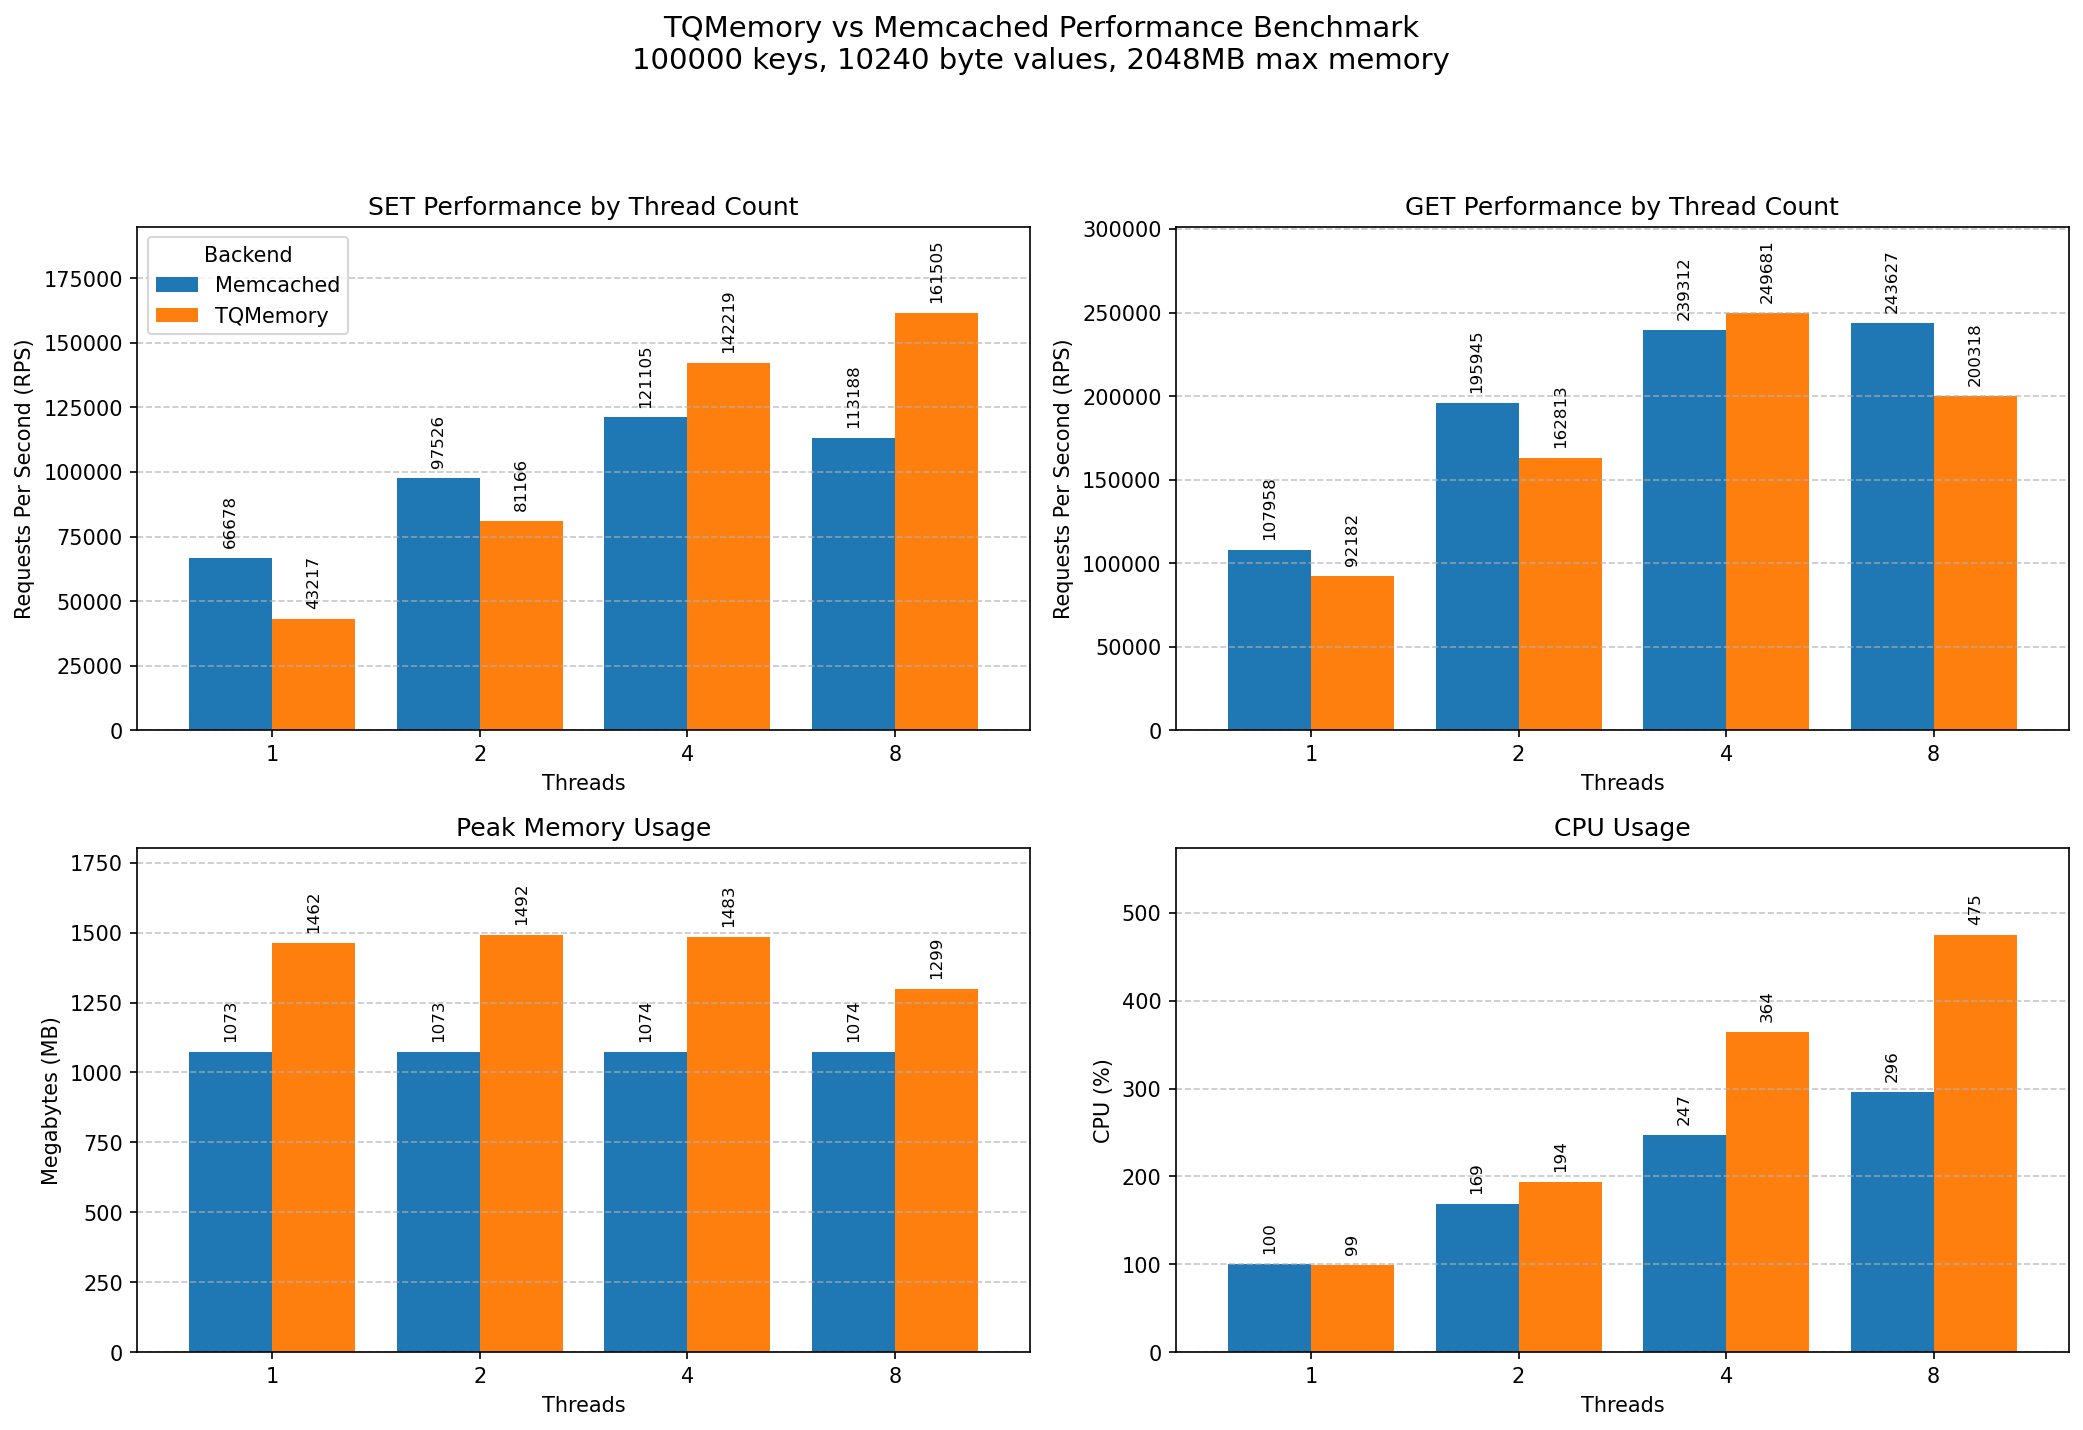
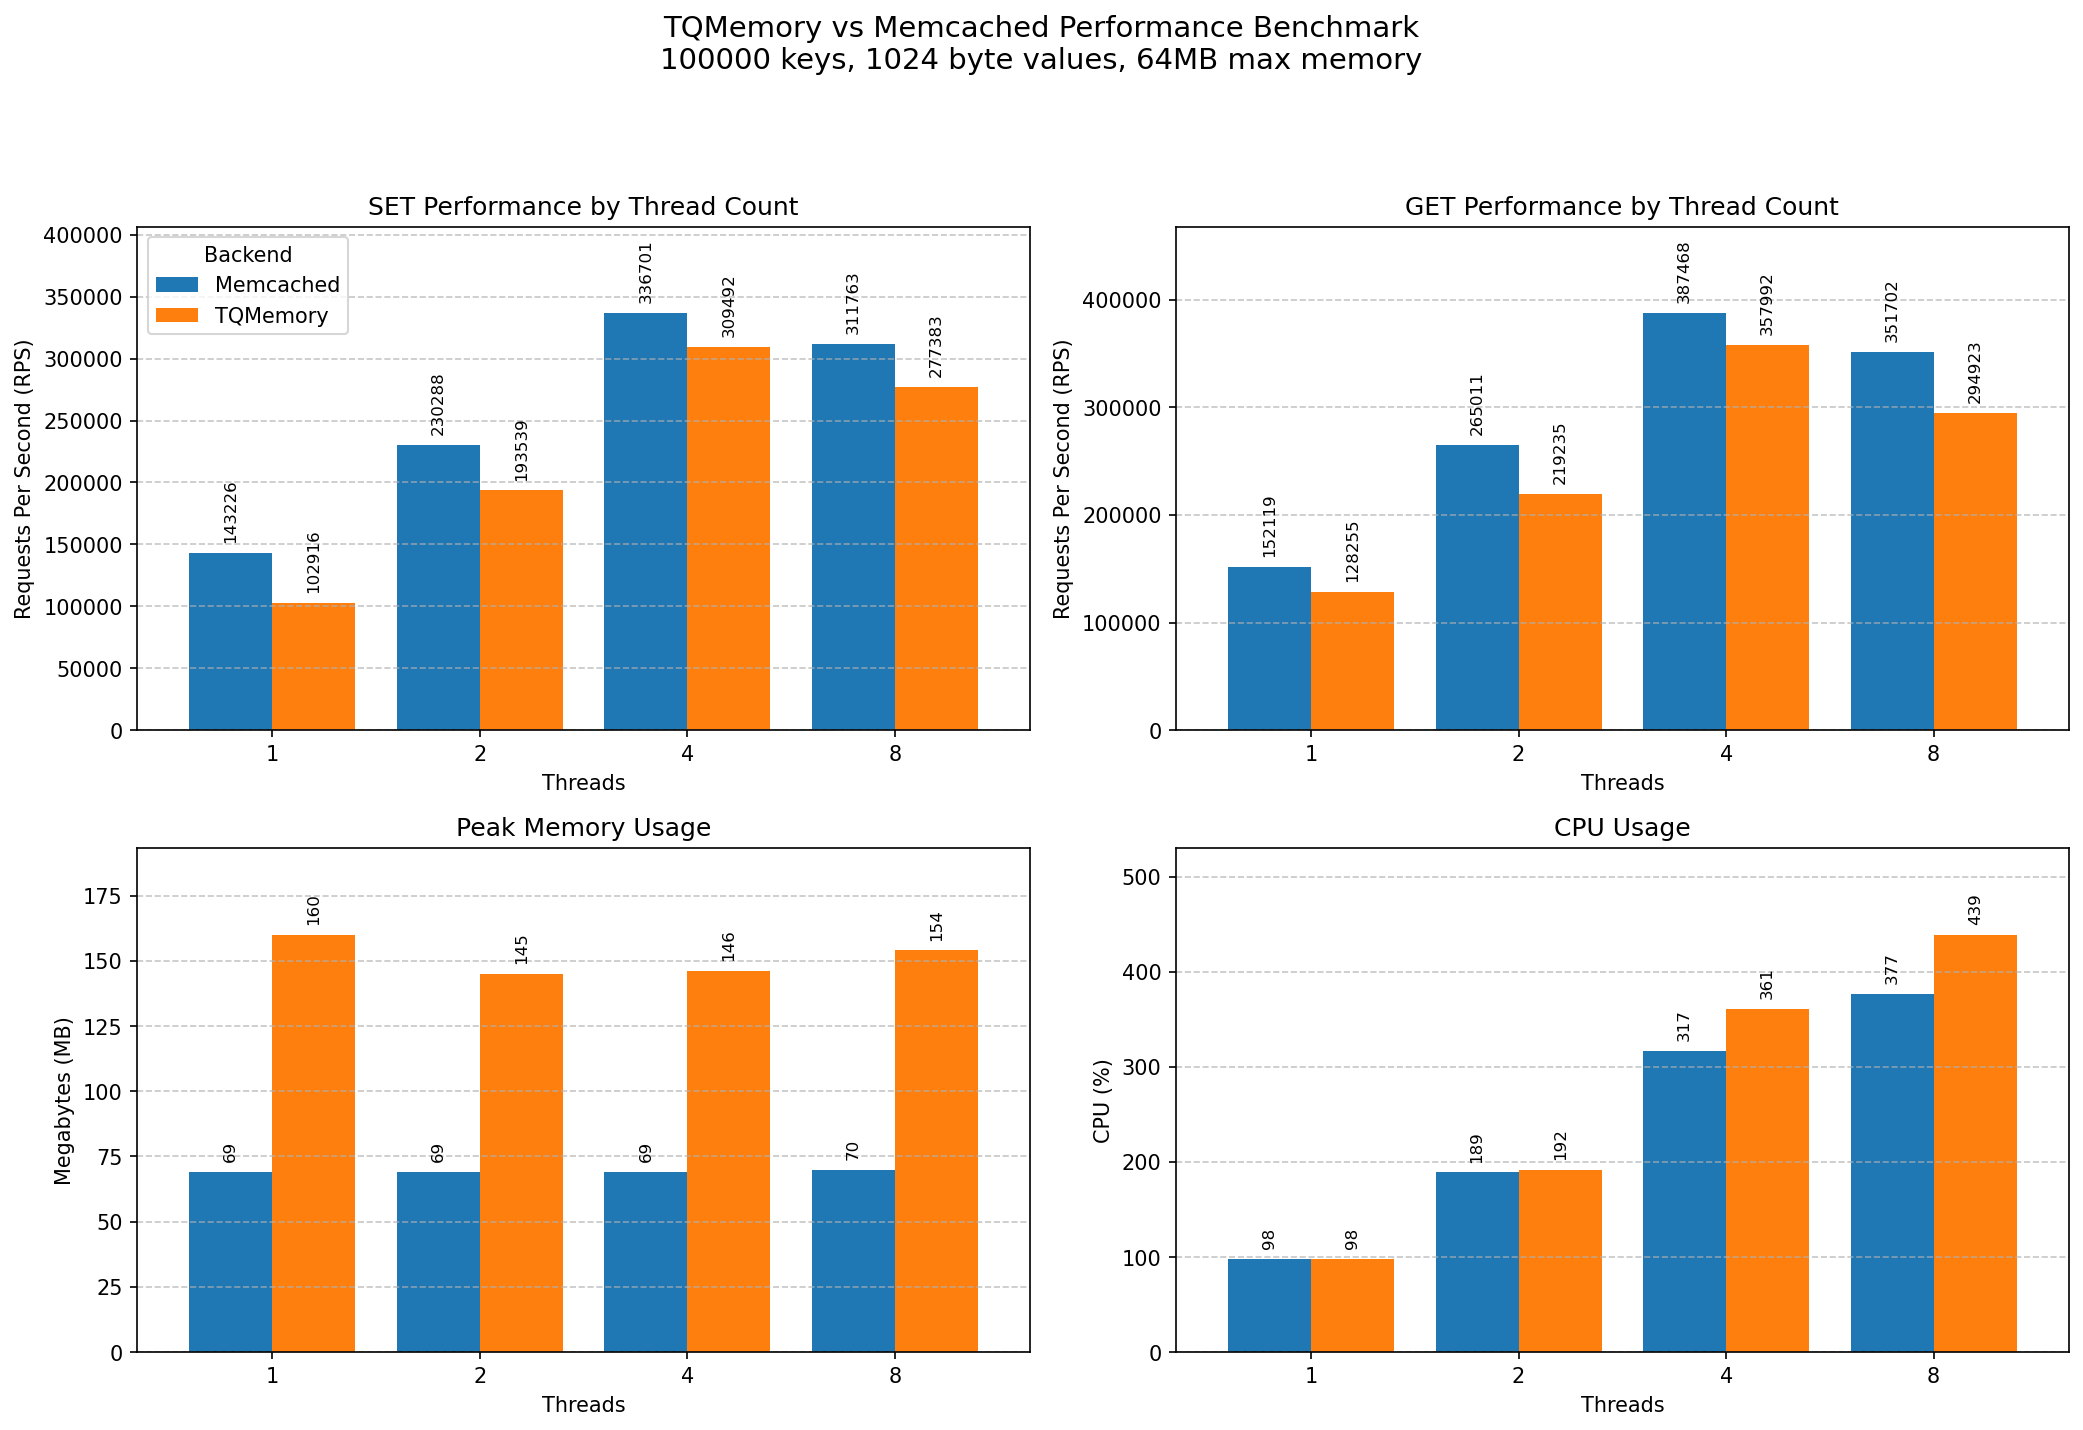
update

diff --git a/pkg/tqmemory/index.go b/pkg/tqmemory/index.go
@@ -4,7 +4,6 @@ import (
 	"container/heap"
 	"container/list"
 	"errors"
-	"sync"
 )
 
 // Common errors
@@ -18,10 +17,11 @@ var (
 
 // IndexEntry represents an entry in the index
 type IndexEntry struct {
-	Key    string
-	Value  []byte // Value stored directly in the entry
-	Expiry int64  // Unix timestamp in milliseconds, 0 = no expiry
-	Cas    uint64
+	Key     string
+	Value   []byte // Value stored directly in the entry
+	Expiry  int64  // Unix timestamp in milliseconds, 0 = no expiry
+	Cas     uint64
+	lruElem *list.Element // Direct pointer to LRU element (avoids lruMap lookup)
 }
 
 // ExpiryEntry represents an entry in the expiry heap
@@ -101,39 +101,32 @@ func (h *ExpiryHeap) Remove(key string) {
 }
 
 // Index holds all in-memory data structures.
-// Uses sync.Map for lock-free concurrent reads.
+// Uses regular map - caller must hold appropriate lock (RLock for Get, Lock for writes).
+// LRU list stores *IndexEntry directly, avoiding key duplication.
 type Index struct {
-	data       sync.Map // key → *IndexEntry, thread-safe
-	count      int      // Manual count (updated under worker lock)
+	data       map[string]*IndexEntry // key → *IndexEntry
 	expiryHeap *ExpiryHeap
-	lruList    *list.List               // Doubly linked list for LRU ordering
-	lruMap     map[string]*list.Element // key → list element for O(1) access
+	lruList    *list.List // Stores *IndexEntry directly
 }
 
 func NewIndex() *Index {
 	return &Index{
+		data:       make(map[string]*IndexEntry),
 		expiryHeap: NewExpiryHeap(),
 		lruList:    list.New(),
-		lruMap:     make(map[string]*list.Element),
 	}
 }
 
-// Get retrieves an entry by key - lock-free with sync.Map
+// Get retrieves an entry by key - caller must hold RLock
 func (idx *Index) Get(key string) (*IndexEntry, bool) {
-	val, ok := idx.data.Load(key)
-	if !ok {
-		return nil, false
-	}
-	return val.(*IndexEntry), true
+	entry, ok := idx.data[key]
+	return entry, ok
 }
 
 // Set inserts or updates an entry - caller must hold Lock
 func (idx *Index) Set(entry *IndexEntry) {
-	_, existed := idx.data.Load(entry.Key)
-	idx.data.Store(entry.Key, entry)
-	if !existed {
-		idx.count++
-	}
+	old, existed := idx.data[entry.Key]
+	idx.data[entry.Key] = entry
 
 	// Update expiry heap
 	if entry.Expiry > 0 {
@@ -142,29 +135,31 @@ func (idx *Index) Set(entry *IndexEntry) {
 		idx.expiryHeap.Remove(entry.Key)
 	}
 
-	// Update LRU list - move to back (most recently used)
-	if elem, ok := idx.lruMap[entry.Key]; ok {
-		idx.lruList.MoveToBack(elem)
+	// Update LRU list
+	if existed && old.lruElem != nil {
+		// Reuse existing element, just update the pointer
+		old.lruElem.Value = entry
+		entry.lruElem = old.lruElem
+		idx.lruList.MoveToBack(entry.lruElem)
 	} else {
-		elem := idx.lruList.PushBack(entry.Key)
-		idx.lruMap[entry.Key] = elem
+		// New entry - add to LRU list
+		entry.lruElem = idx.lruList.PushBack(entry)
 	}
 }
 
 // Delete removes an entry by key - caller must hold Lock
 func (idx *Index) Delete(key string) *IndexEntry {
-	val, loaded := idx.data.LoadAndDelete(key)
-	if !loaded {
+	entry, ok := idx.data[key]
+	if !ok {
 		return nil
 	}
-	idx.count--
-	entry := val.(*IndexEntry)
+	delete(idx.data, key)
 	idx.expiryHeap.Remove(key)
 
-	// Remove from LRU list
-	if elem, ok := idx.lruMap[key]; ok {
-		idx.lruList.Remove(elem)
-		delete(idx.lruMap, key)
+	// Remove from LRU list using direct pointer
+	if entry.lruElem != nil {
+		idx.lruList.Remove(entry.lruElem)
+		entry.lruElem = nil
 	}
 
 	return entry
@@ -172,8 +167,9 @@ func (idx *Index) Delete(key string) *IndexEntry {
 
 // Touch moves a key to the end of the LRU list (most recently used)
 func (idx *Index) Touch(key string) {
-	if elem, ok := idx.lruMap[key]; ok {
-		idx.lruList.MoveToBack(elem)
+	entry, ok := idx.data[key]
+	if ok && entry.lruElem != nil {
+		idx.lruList.MoveToBack(entry.lruElem)
 	}
 }
 
@@ -183,17 +179,12 @@ func (idx *Index) GetOldest() *IndexEntry {
 	if elem == nil {
 		return nil
 	}
-	key := elem.Value.(string)
-	entry, ok := idx.Get(key)
-	if !ok {
-		return nil
-	}
-	return entry
+	return elem.Value.(*IndexEntry)
 }
 
 // Count returns the number of entries
 func (idx *Index) Count() int {
-	return idx.count
+	return len(idx.data)
 }
 
 // ExpiryHeapRef returns the expiry heap for background expiration

diff --git a/pkg/tqmemory/worker.go b/pkg/tqmemory/worker.go
@@ -150,26 +150,34 @@ func (w *Worker) drainTouchChan() {
 	}
 }
 
-// DirectGet performs a lock-free GET via sync.Map.
+// DirectGet performs a read-locked GET.
 // Returns the value slice directly (caller must not modify it).
 func (w *Worker) DirectGet(key string) ([]byte, uint64, error) {
+	w.mu.RLock()
 	entry, ok := w.index.Get(key)
 	if !ok {
+		w.mu.RUnlock()
 		return nil, 0, ErrKeyNotFound
 	}
 	// Check expiry
 	if entry.Expiry > 0 && entry.Expiry <= time.Now().UnixMilli() {
+		w.mu.RUnlock()
 		return nil, 0, ErrKeyNotFound
 	}
+	// Capture values before releasing lock
+	value := entry.Value
+	cas := entry.Cas
+	keyToTouch := entry.Key
+	w.mu.RUnlock()
 
 	// Queue LRU touch for batched processing (non-blocking)
 	select {
-	case w.touchChan <- entry.Key:
+	case w.touchChan <- keyToTouch:
 	default:
 		// Channel full, skip this touch
 	}
 
-	return entry.Value, entry.Cas, nil
+	return value, cas, nil
 }
 
 func (w *Worker) expireKeys() {
